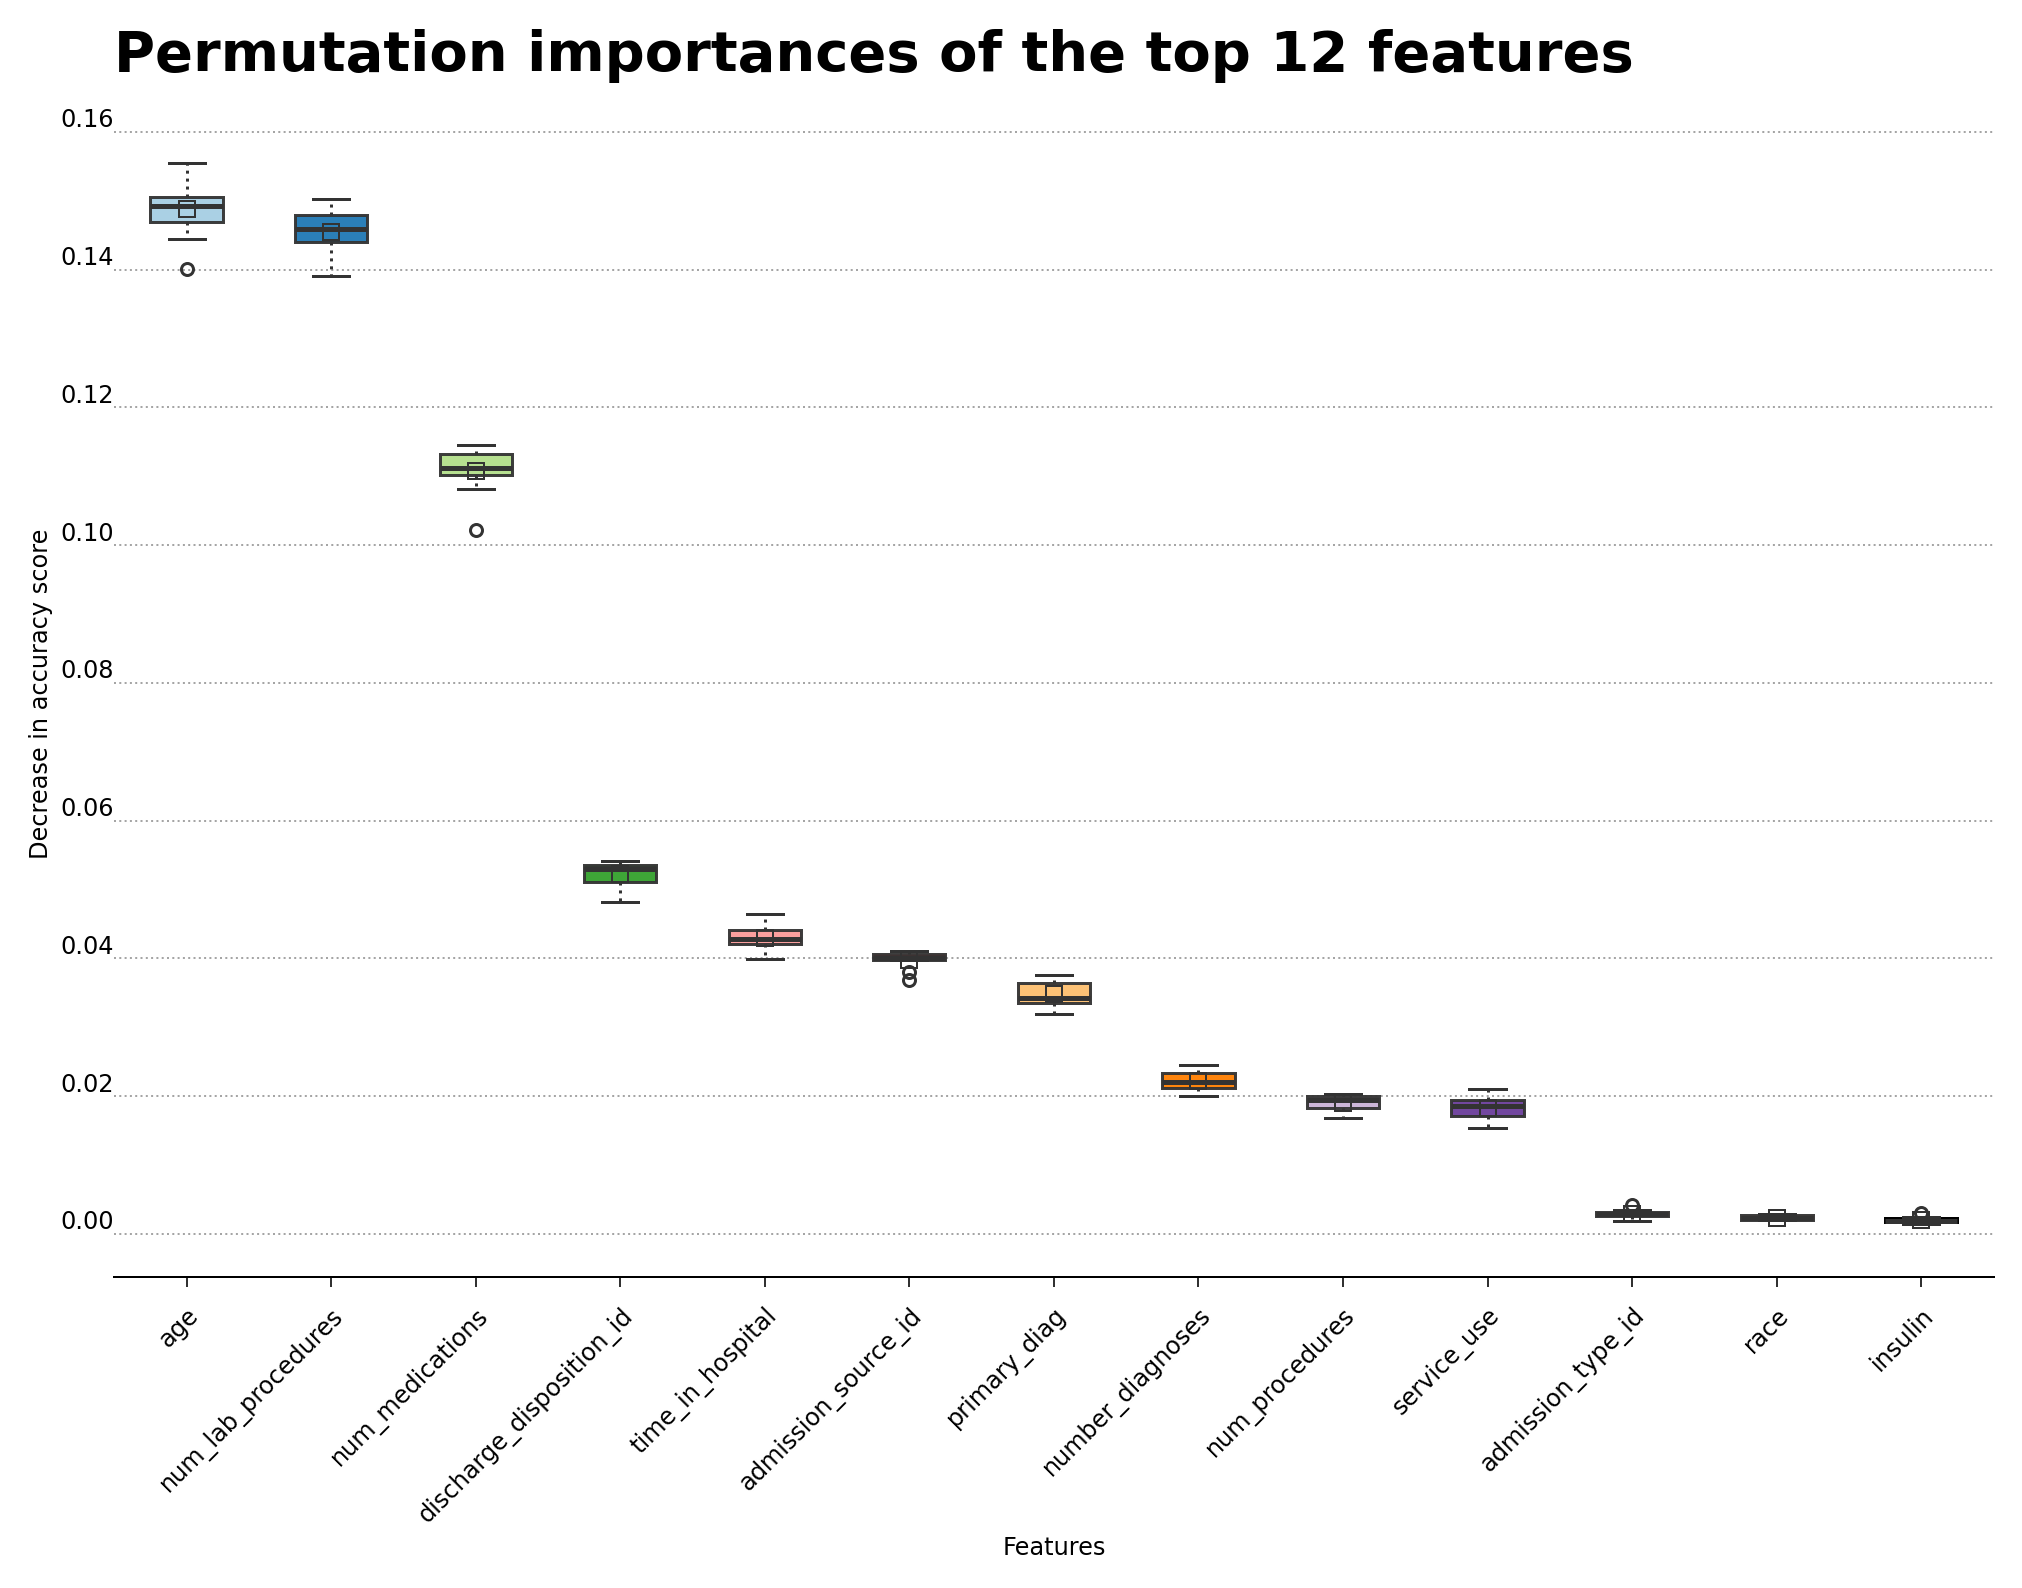
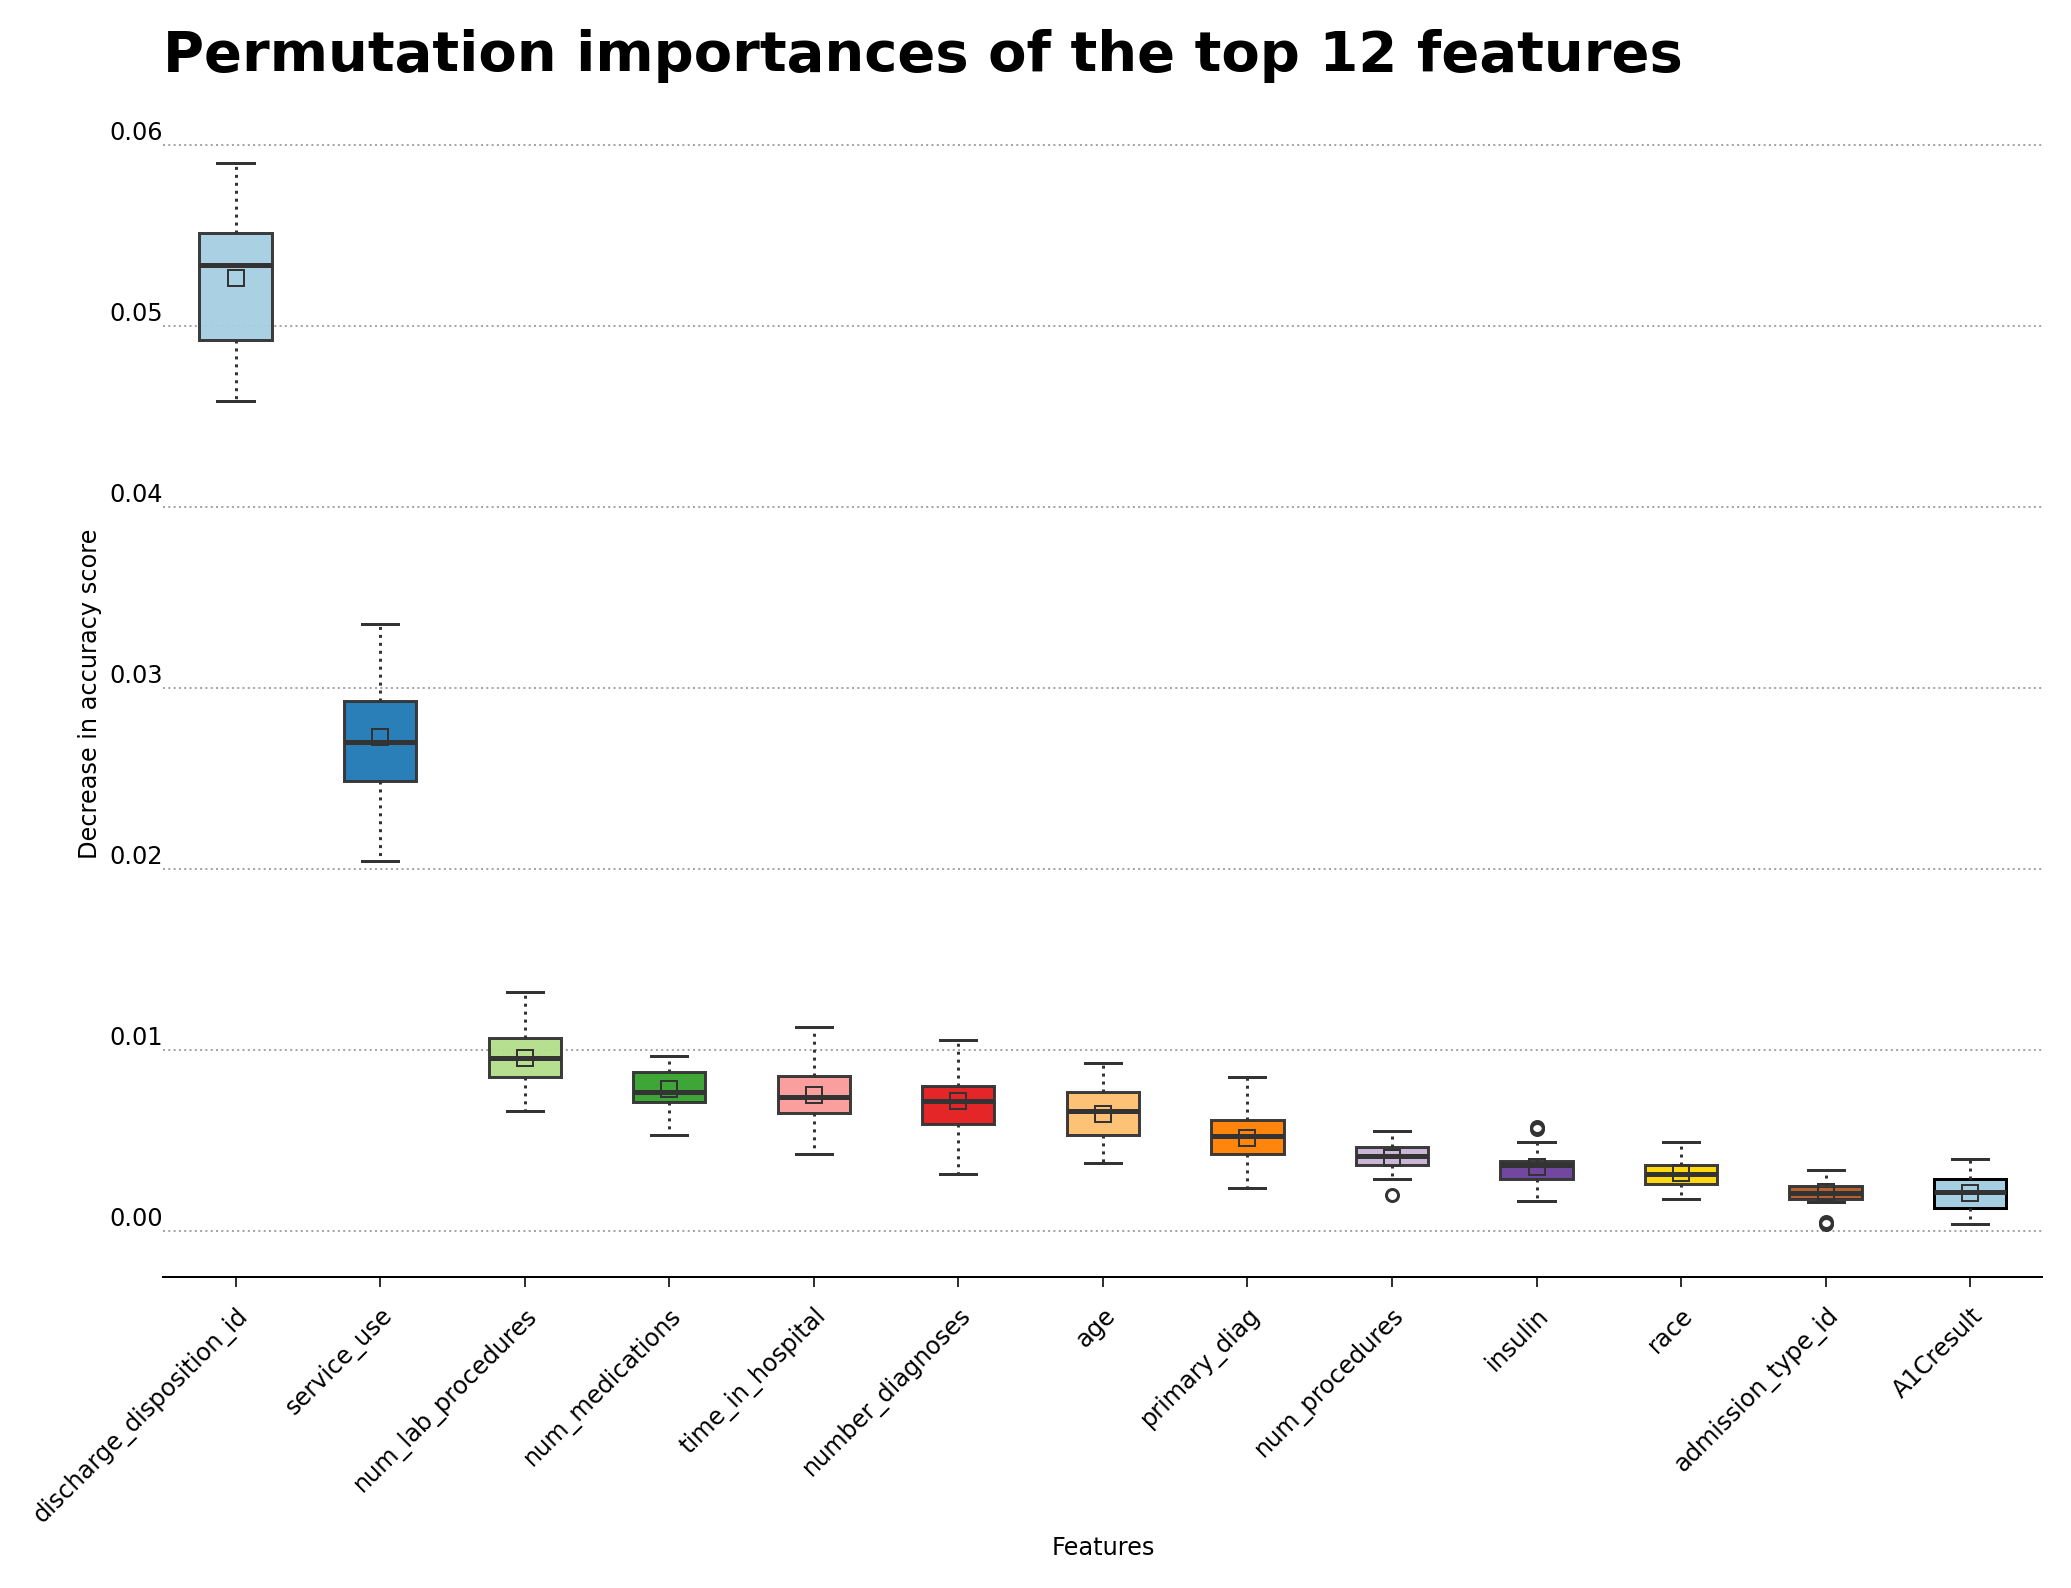
Using GB classifier for permutation importances; n_repeats=25 & scoring='balanced_accuracy'

diff --git a/permutation.py b/permutation.py
@@ -7,7 +7,8 @@ from time import time
 from datetime import timedelta
 import matplotlib.pyplot as plt
 from imblearn.under_sampling import RandomUnderSampler
-from sklearn.svm import SVC
+# from sklearn.svm import SVC
+from sklearn.ensemble import GradientBoostingClassifier
 from sklearn.inspection import permutation_importance
 
 plt.style.use("boxplot-style.mplstyle")
@@ -41,18 +42,23 @@ with open('params.json', 'r') as f:
 rus = RandomUnderSampler(sampling_strategy='majority', random_state=0)
 X_resampled, y_resampled = rus.fit_resample(X, y)
 
-svc = SVC(
-    probability=True,
-    C=model_params['params_svc']['C'],
-    gamma=model_params['params_svc']['gamma'],
-    random_state=model_params['params_svc']['random_state'],
-)
+# svc = SVC(
+#     probability=True,
+#     C=model_params['params_svc']['C'],
+#     gamma=model_params['params_svc']['gamma'],
+#     random_state=model_params['params_svc']['random_state'],
+# )
 
-svc_clf = svc.fit(X_resampled, y_resampled)
-cols = svc_clf.feature_names_in_
-r = permutation_importance(svc_clf, X_resampled, y_resampled,
-                           scoring='accuracy', n_jobs=-1,
-                           random_state=42, n_repeats=10,)
+gbc = GradientBoostingClassifier(
+            learning_rate=model_params['params_gb']['learning_rate'],
+            random_state=model_params['params_gb']['random_state'],
+        )
+
+gbc_clf = gbc.fit(X_resampled, y_resampled)
+cols = gbc_clf.feature_names_in_
+r = permutation_importance(gbc_clf, X_resampled, y_resampled,
+                           scoring='balanced_accuracy', n_jobs=-1,
+                           random_state=42, n_repeats=25,)
 
 sorted_results_dict = {}
 for i in r.importances_mean.argsort()[::-1]:
